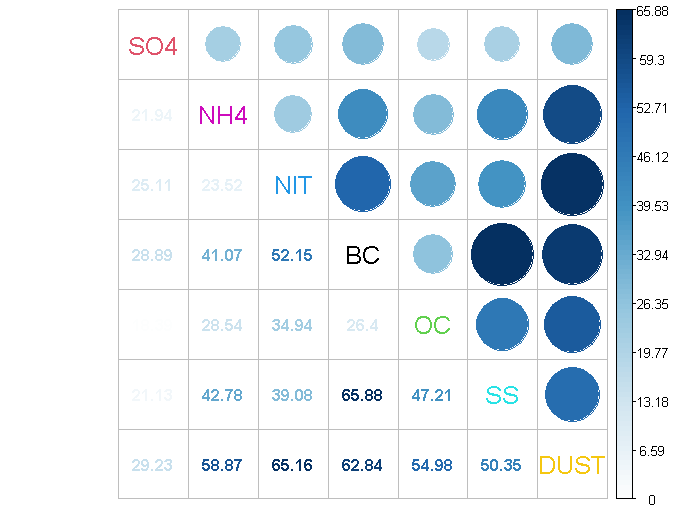
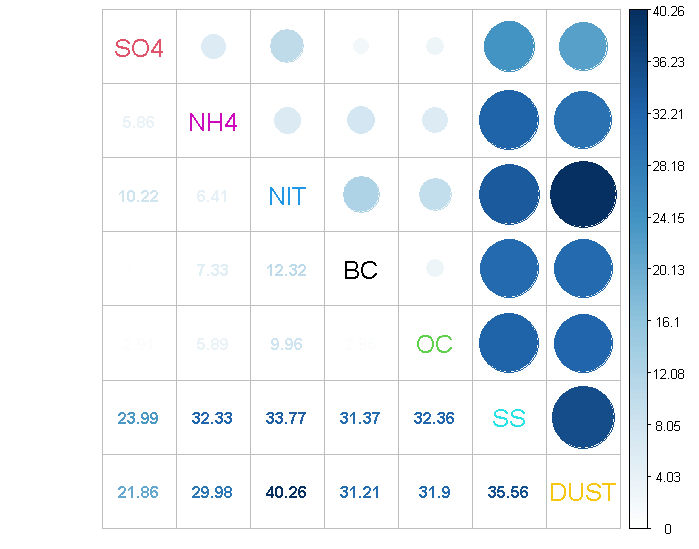
PCA
- PCA on PM compositions
- Slight change in variation matrix: done on city averages.

diff --git a/README.md b/README.md
@@ -18,9 +18,13 @@ Below is the same plot but showing proportions for all years. Overall, there is 
 
 ![PropCountries](https://github.com/PierreMasselot/MCC-HetPoll/blob/master/Results/1b_CompCountries.png)
 
-The following plot shows the variation matrix of constituents proportion. This matrix computes the variance of the log-ratios between each constituent. When this variance is high, this means that the two constituents tend to vary in opposite directions (when one increases, it takes the proportion of the other). DUST seems to vary a lot compared to other constituents. This may be explained by its high proportion of zero values, meaning that when DUST is present, all other constituents decrease. We also observe a high variation of black carbon (BC) compared to sea salt (SS) and Nitrate (NIT).
+The following plot shows the variation matrix of constituents proportion (averaged by city). This matrix computes the variance of the log-ratios between each constituent. When this variance is high, this means that the two constituents tend to vary in opposite directions (when one increases, it lowers down the proportion of the other). DUST and SS seem to vary a lot compared to other constituents. This may be explained by their high proportion of zero values, meaning that when one of them is present, all other constituents decrease. 
 
 ![VariationMat](https://github.com/PierreMasselot/MCC-HetPoll/blob/master/Results/1b_VariationMatrix.png)
+
+It can also be interesting to do a PCA on proportions. Mainly the two "organic" components (BC and OC) have the same direction, so have NIT and NH4 which are two of the three secondary inorganix aerosols.
+
+![PCA](https://github.com/PierreMasselot/MCC-HetPoll/blob/master/Results/1b_PCAbiplot.png)
 
 ## First stage model
 
